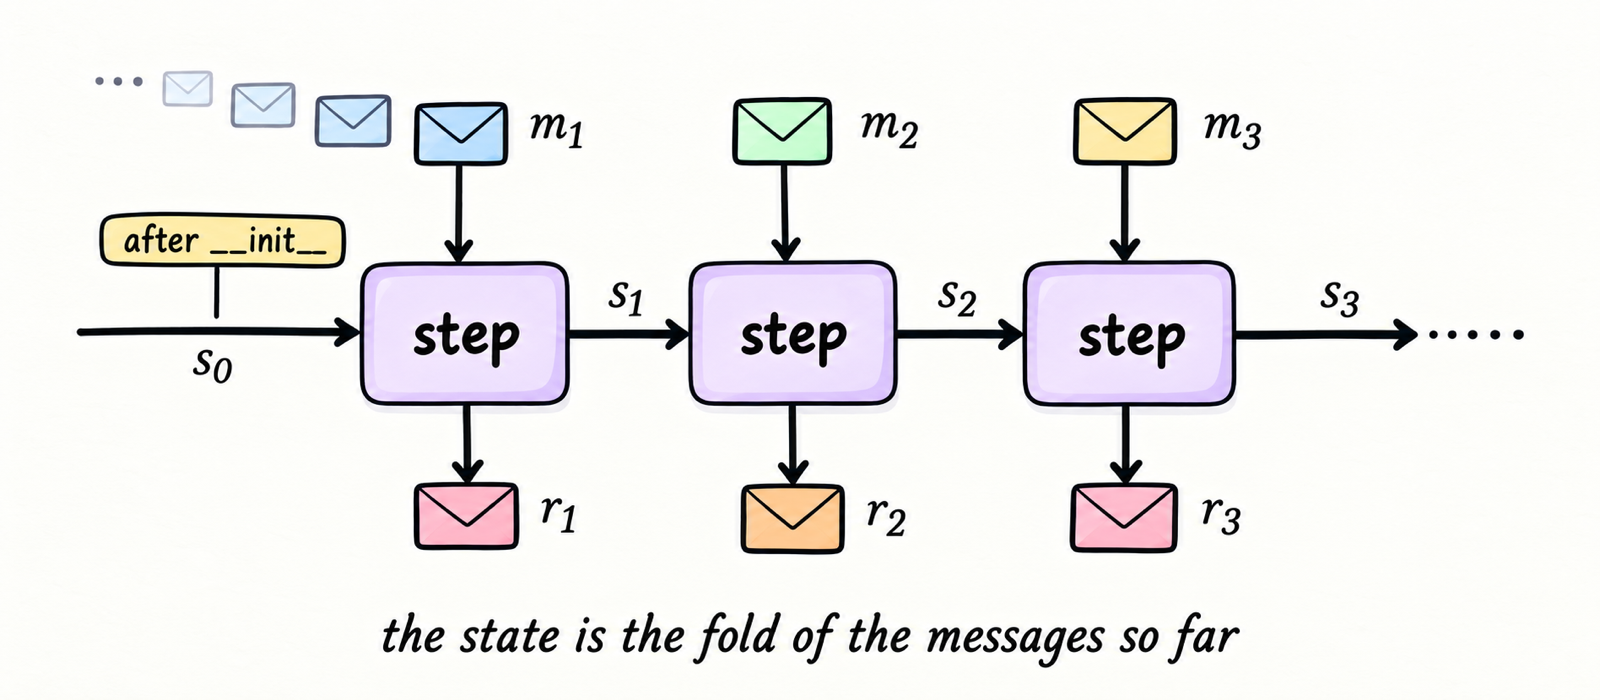
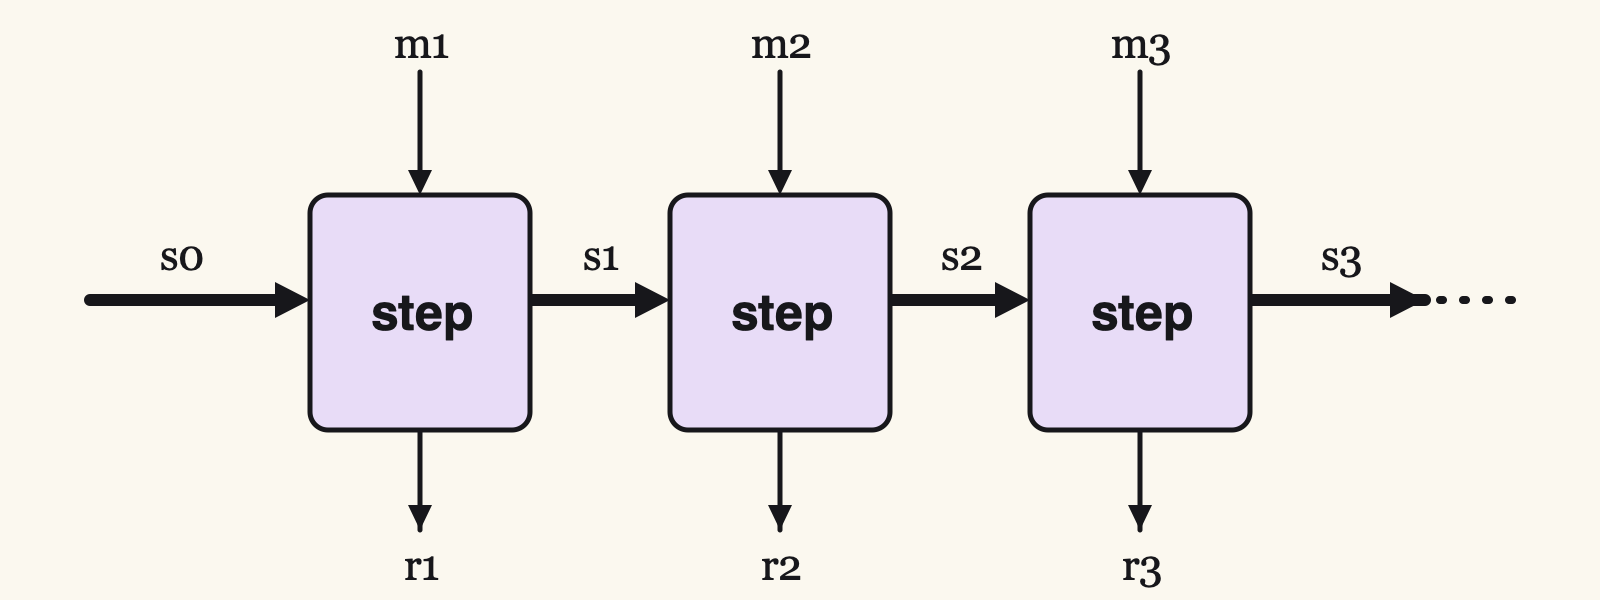
Introduce step, incr, k, Mealy, reset, s0, fold and mapAccumL before use

Changed region(s): [[0.0312, 0.06, 0.9688, 0.99]]

diff --git a/article.md b/article.md
@@ -25,17 +25,25 @@ class Counter(Actor):
         return self.n
 ```
 
-States $S$, messages $M$, replies $R$:
+`Counter` holds an integer `n`. The endpoint `incr(k)` adds `k` to `n` and replies with the result.
+
+In general, let $S$ be the set of states an actor can be in, $M$ the set of messages it accepts, and $R$ the set of replies it can send. Handling one message is a function, which we call **step**: it takes the current state and a message, and returns the next state and a reply.
 
 $$ \mathsf{step} : S \times M \to S \times R $$
 
 ![The step box.](images/fig-1-1-step.png)
 
-$\mathsf{step}(n, \mathtt{incr}(k)) = (n + k,\ n + k)$. A **Mealy machine**.
+For `Counter`, a state is the integer $n$, a message is $\mathtt{incr}(k)$ for an integer $k$, and a reply is an integer:
+
+$$ \mathsf{step}(n, \mathtt{incr}(k)) = (n + k,\ n + k) $$
+
+A function of this shape, where the next state and the output both depend on the current state and the input, defines a **Mealy machine**: the standard model of a state machine that produces output (Mealy, 1955).
 
 The object lives on its own Python thread; [`PythonActor`](https://github.com/meta-pytorch/monarch/blob/d16adfd48f71dadbdcf2c92c7a3d0054bd323ce2/monarch_hyperactor/src/actor.rs#L1066) holds a handle. The rest is plumbing around `step`, which never changes.
 
 ## A run is a fold
+
+Give `Counter` a second endpoint, which sets `n` back to zero:
 
 ```python
     @endpoint
@@ -44,7 +52,7 @@ The object lives on its own Python thread; [`PythonActor`](https://github.com/me
         return 0
 ```
 
-From $s_0$:
+An actor handles a sequence of messages $m_1, m_2, m_3, \ldots$ one at a time. Write $s_0$ for the state `__init__` leaves. Each step's next state is the following step's current state:
 
 $$
 \begin{aligned}
@@ -56,7 +64,9 @@ $$
 
 ![The fold.](images/fig-2-1-fold.png)
 
-`mapAccumL`. Replies out; state in `self`. [`_dispatch_loop`](https://github.com/meta-pytorch/monarch/blob/d16adfd48f71dadbdcf2c92c7a3d0054bd323ce2/python/monarch/_src/actor/actor_mesh.py#L1398):
+Threading a state through a sequence like this is a **fold**. A fold that also emits an output at each step is known in Haskell as `mapAccumL`: the replies $r_1, r_2, \ldots$ go out, and the state stays inside.
+
+Monarch's [`_dispatch_loop`](https://github.com/meta-pytorch/monarch/blob/d16adfd48f71dadbdcf2c92c7a3d0054bd323ce2/python/monarch/_src/actor/actor_mesh.py#L1398) is this loop, with batching removed. The state is never passed along because it lives in `self`:
 
 ```python
 while True:
@@ -66,9 +76,9 @@ while True:
 
 > State is the fold of the messages handled so far.
 
-**One at a time:** $s_2$ needs $s_1$.
+**One at a time.** $s_2$ can't be computed until $s_1$ exists, so each handler finishes before the next message is taken.
 
-**In order:**
+**In order.** The same two messages, applied in either order to a state of 5:
 
 $$
 \begin{aligned}
@@ -79,7 +89,7 @@ $$
 
 ![Order matters.](images/fig-2-2-order.png)
 
-Delivery must preserve order.
+The final states differ, so delivery must preserve order.
 
 <!-- To come, in order:
 ## Order            two FIFO hops; order-preserving maps compose
